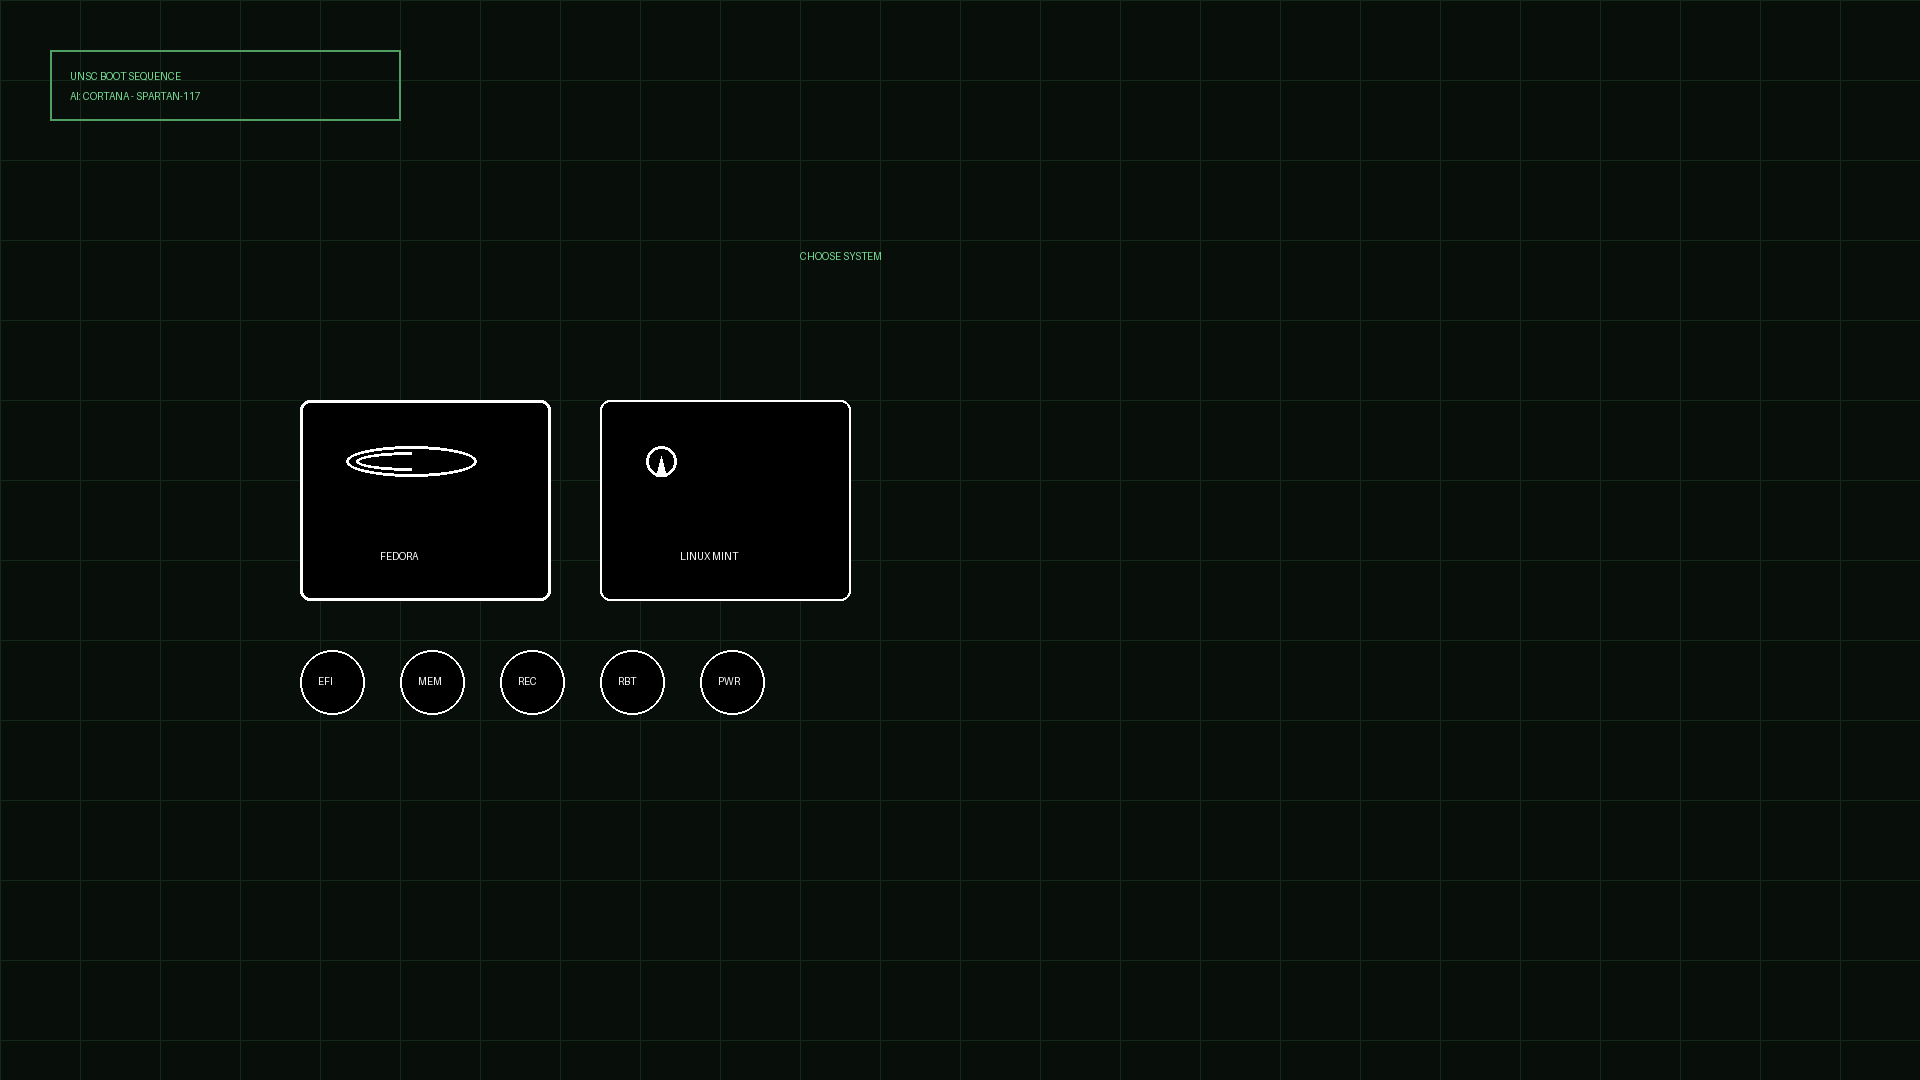
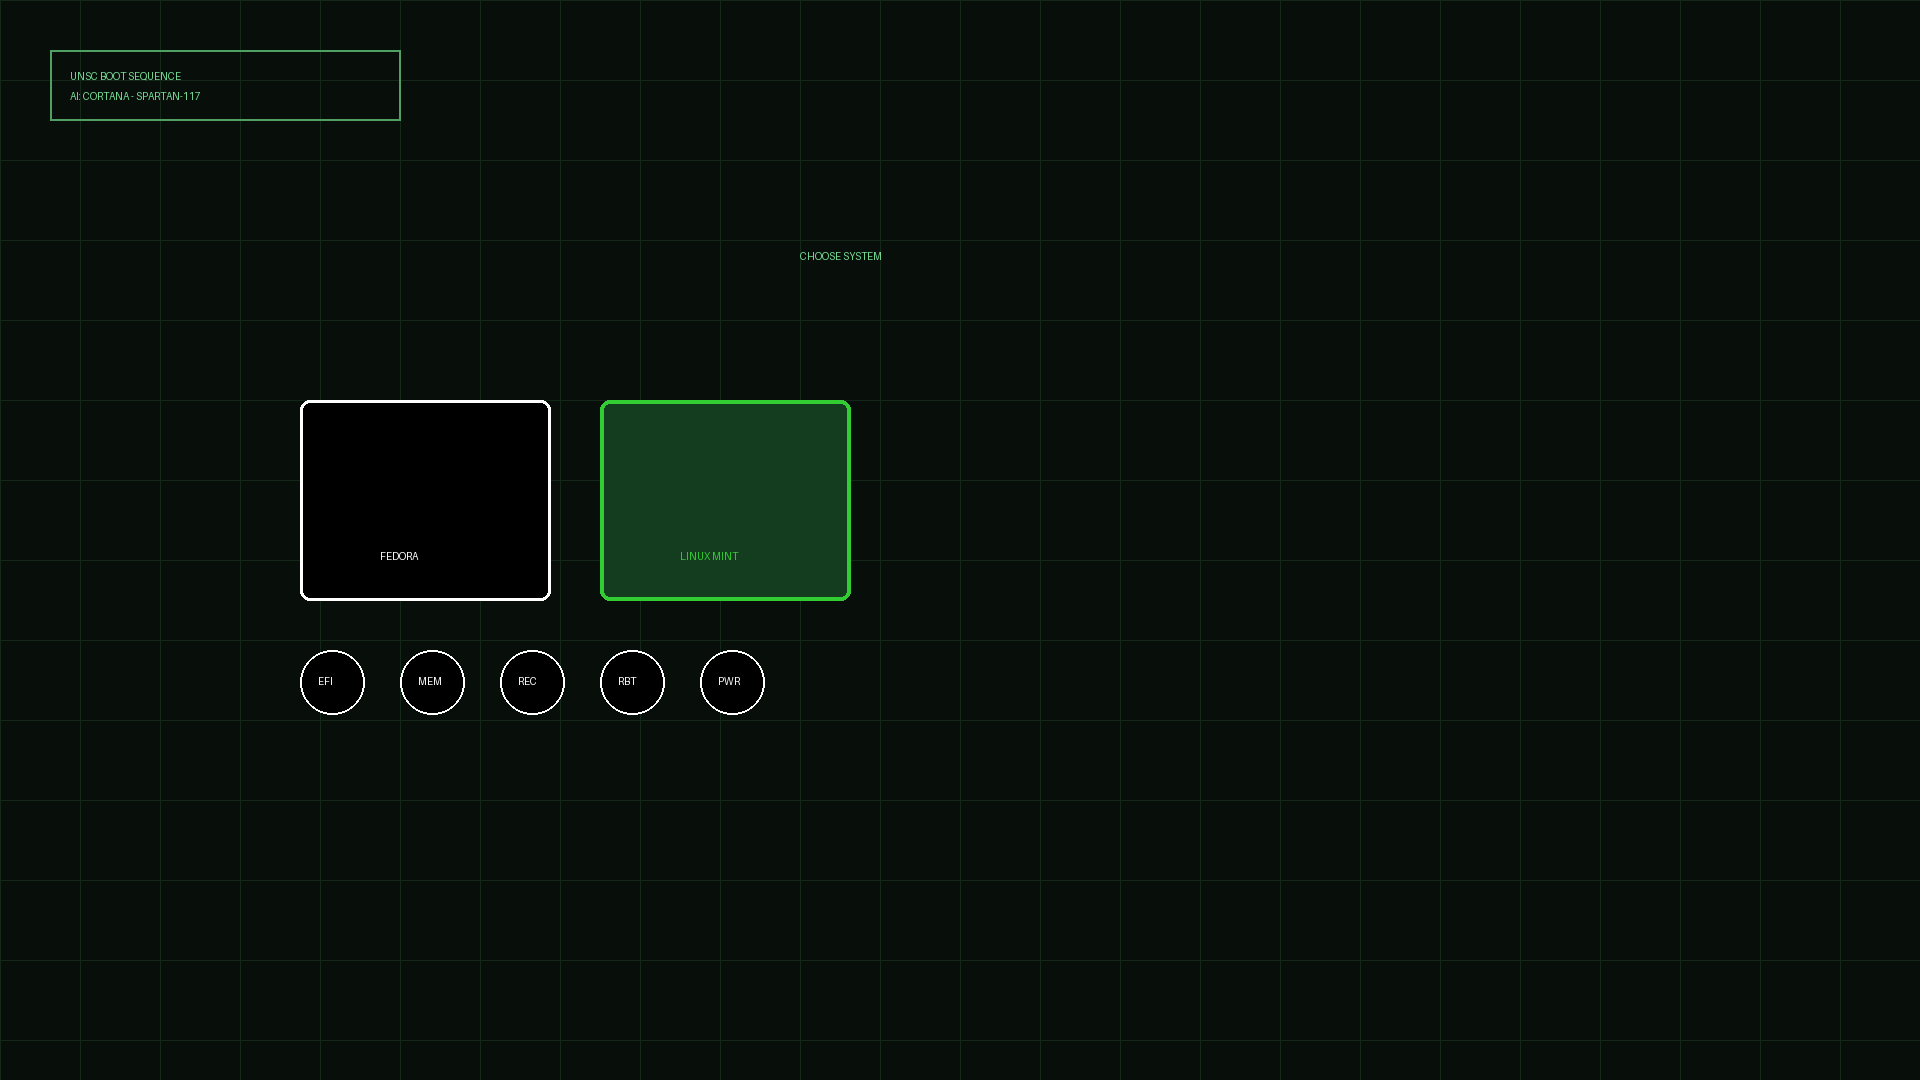
maintenance script dan assets

Changed region(s): [[0.3125, 0.3667, 0.4688, 0.5806], [0.1875, 0.3972, 0.2188, 0.4583]]

diff --git a/README.md b/README.md
@@ -1,18 +1,18 @@
-# Halo GRUB2 Theme - Ultimate Edition (Bug Free)
+# Halo GRUB2 Theme - Neon Green Glow & Centered Icons Edition
 
-Tema GRUB2 bernuansa sci-fi HUD dengan dukungan 11+ OS Icon Cards berwarna putih, bersih dari *bug* font dan konfigurasi sistem.
-
-## Changelog Ultimate:
-1. **Font Bug Fixed:** Konfigurasi kustom font (`item_font`) yang memicu error font hilang (`.pf2` missing) telah dihapus agar mengandalkan font bawaan sistem yang stabil.
-2. **Hidden Menu Fixed:** Skrip kini memastikan `GRUB_TIMEOUT_STYLE=menu` aktif.
-3. **Console Output Fixed:** Skrip mem-bypass parameter `GRUB_TERMINAL_OUTPUT="console"` yang kerap mencegah render antarmuka grafis.
+Tema GRUB2 bernuansa UNSC Halo dengan ikon yang diposisikan di tengah card, serta efek sorotan *outline* hijau neon (`#32a852`) dan background transparan hijau pada card yang sedang aktif (*selected*).
 
 ## Preview Visual Tema
 ![Preview Visual Tema Halo GRUB2](preview.png)
 
+## Fitur Pembaruan:
+* **Icon Centering:** Posisi ikon dan teks di dalam card tersusun rapi di tengah.
+* **Neon Selection Glow:** Card yang terseleksi memancarkan sorotan outline warna hijau neon dengan transparansi latar hijau gelap yang elegan.
+* **Bug Free Installer:** Kompatibel dengan berbagai distro Linux (Ubuntu, Arch, Fedora, dll).
+
 ## Cara Instalasi
 1. Ekstrak `.zip` ini.
-2. Buka terminal di dalam folder ekstraksi.
-3. Eksekusi: `chmod +x install.sh`
-4. Instal: `sudo ./install.sh`
-5. Restart komputer Anda.
+2. Buka terminal di folder hasil ekstraksi.
+3. Jalankan: `chmod +x install.sh`
+4. Jalankan perintah instalasi: `sudo ./install.sh`
+5. *Restart* PC Anda.
